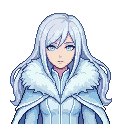
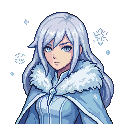
半身像角度返工 v217：霜华换带角度候选、圣骑士按三件套重生成 + 守卫 R5
- 霜华：换用带角度雪花披风候选（用户选定）；圣骑士：description 补齐
  角度+性格 pose 重生成（three-quarter、侧身远望、少年劲头的笑），同人闸门过
- 根治：pretool-guard 新增 R5——create_1_direction_object 的描述含
  portrait/bust 却缺角度词（three-quarter/turned/angled…）直接拦截；
  实弹自测拦/放各例通过；make-bootstrap 已同步说明书第 0 章副本
- 说明书 §F 补「description 硬性三件套」：身份+角度(禁正面证件照)+性格 pose，
  并把「带角度」列为候选挑选硬维度；档案登记新 object ID、旧正面版已删
- PixelLab 台账清理：废弃的正面版 object 与 review 残留全部删除

自测：Playwright 5/5 PASS；三张终版拼图逐张目视全带角度

Claude-Session: https://claude.ai/code/session_01QGRynvBqtept4T7sdccom5

diff --git a/index.html b/index.html
@@ -5,39 +5,39 @@
   <meta name="viewport" content="width=device-width, initial-scale=1.0, maximum-scale=1.0, user-scalable=no, viewport-fit=cover">
   <title>棕色尘埃 2 · Brown Dust 2</title>
   <!-- PWA / 添加到主屏幕（iOS 全屏关键） -->
-  <link rel="manifest" href="manifest.webmanifest?v=216">
+  <link rel="manifest" href="manifest.webmanifest?v=217">
   <meta name="theme-color" content="#1a1422">
   <meta name="mobile-web-app-capable" content="yes">
   <meta name="apple-mobile-web-app-capable" content="yes">
   <meta name="apple-mobile-web-app-status-bar-style" content="black-translucent">
   <meta name="apple-mobile-web-app-title" content="棕色尘埃2">
-  <link rel="apple-touch-icon" href="icons/apple-touch-icon.png?v=216">
-  <link rel="icon" type="image/png" href="icons/icon-192.png?v=216">
-  <link rel="stylesheet" href="css/style.css?v=216">
+  <link rel="apple-touch-icon" href="icons/apple-touch-icon.png?v=217">
+  <link rel="icon" type="image/png" href="icons/icon-192.png?v=217">
+  <link rel="stylesheet" href="css/style.css?v=217">
 </head>
 <body>
   <div id="app">
     <!-- 顶部栏：玩家信息 + 资源 + 系统 -->
     <header id="topbar">
       <button id="topbar-profile" class="profile-chip" title="玩家资料">
-        <span class="pc-avatar"><img src="art/01_splash/lecliss_avatar.png?v=216" alt="" onerror="this.outerHTML='🎖'"></span>
+        <span class="pc-avatar"><img src="art/01_splash/lecliss_avatar.png?v=217" alt="" onerror="this.outerHTML='🎖'"></span>
         <span class="pc-info">
           <span class="pc-name" id="pc-name">指挥官</span>
           <span class="pc-sub">Lv.<span id="pc-lv">1</span> · ⚔<span id="pc-pow">0</span></span>
         </span>
       </button>
       <div class="resources">
-        <div class="res" title="金币"><span class="res-icon"><img class="px-ico-sm" src="art/05_pixellab/ui/icons/coin.png?v=216" alt="金"></span><span id="res-gold">0</span></div>
-        <div class="res" title="宝石"><span class="res-icon"><img class="px-ico-sm" src="art/05_pixellab/ui/icons/gem.png?v=216" alt="钻"></span><span id="res-gem">0</span></div>
-        <div class="res" title="觉醒石"><span class="res-icon"><img class="px-ico-sm" src="art/05_pixellab/ui/icons/awaken.png?v=216" alt="石"></span><span id="res-stone">0</span></div>
-        <div class="res" title="体力"><span class="res-icon"><img class="px-ico-sm" src="art/05_pixellab/ui/icons/stamina.png?v=216" alt="力"></span><span id="res-stam">0</span></div>
+        <div class="res" title="金币"><span class="res-icon"><img class="px-ico-sm" src="art/05_pixellab/ui/icons/coin.png?v=217" alt="金"></span><span id="res-gold">0</span></div>
+        <div class="res" title="宝石"><span class="res-icon"><img class="px-ico-sm" src="art/05_pixellab/ui/icons/gem.png?v=217" alt="钻"></span><span id="res-gem">0</span></div>
+        <div class="res" title="觉醒石"><span class="res-icon"><img class="px-ico-sm" src="art/05_pixellab/ui/icons/awaken.png?v=217" alt="石"></span><span id="res-stone">0</span></div>
+        <div class="res" title="体力"><span class="res-icon"><img class="px-ico-sm" src="art/05_pixellab/ui/icons/stamina.png?v=217" alt="力"></span><span id="res-stam">0</span></div>
       </div>
       <div class="topbar-sys">
-        <button id="btn-notice" class="ghost-btn" title="公告"><img class="px-ico-sys" src="art/05_pixellab/ui/icons/notice.png?v=216" alt="公告"></button>
-        <button id="btn-mail" class="ghost-btn" title="邮件"><span class="dot-wrap"><img class="px-ico-sys" src="art/05_pixellab/ui/icons/mail.png?v=216" alt="邮件"><span id="mail-dot" class="red-dot" style="display:none;"></span></span></button>
-        <button id="btn-settings" class="ghost-btn" title="设置"><img class="px-ico-sys" src="art/05_pixellab/ui/icons/settings.png?v=216" alt="设置"></button>
-        <button id="btn-fullscreen" class="ghost-btn" title="全屏"><img class="px-ico-sys" src="art/05_pixellab/ui/icons/fullscreen.png?v=216" alt="全屏"></button>
-        <button id="btn-mute" class="ghost-btn" title="音效开关"><img class="px-ico-sys" src="art/05_pixellab/ui/icons/sound.png?v=216" alt="音效"></button>
+        <button id="btn-notice" class="ghost-btn" title="公告"><img class="px-ico-sys" src="art/05_pixellab/ui/icons/notice.png?v=217" alt="公告"></button>
+        <button id="btn-mail" class="ghost-btn" title="邮件"><span class="dot-wrap"><img class="px-ico-sys" src="art/05_pixellab/ui/icons/mail.png?v=217" alt="邮件"><span id="mail-dot" class="red-dot" style="display:none;"></span></span></button>
+        <button id="btn-settings" class="ghost-btn" title="设置"><img class="px-ico-sys" src="art/05_pixellab/ui/icons/settings.png?v=217" alt="设置"></button>
+        <button id="btn-fullscreen" class="ghost-btn" title="全屏"><img class="px-ico-sys" src="art/05_pixellab/ui/icons/fullscreen.png?v=217" alt="全屏"></button>
+        <button id="btn-mute" class="ghost-btn" title="音效开关"><img class="px-ico-sys" src="art/05_pixellab/ui/icons/sound.png?v=217" alt="音效"></button>
         <button id="btn-reset" class="ghost-btn" title="重置存档" style="display:none;">↺</button>
       </div>
     </header>
@@ -70,21 +70,21 @@
     </div>
   </div>
 
-  <script>window.ASSET_VER = '216';</script>
-  <script src="js/audio.js?v=216"></script>
-  <script src="js/data.js?v=216"></script>
-  <script src="js/balance.js?v=216"></script>
-  <script src="js/budget.js?v=216"></script>
-  <script src="js/lore.js?v=216"></script>
-  <script src="js/gear.js?v=216"></script>
-  <script src="js/costumes.js?v=216"></script>
-  <script src="js/game.js?v=216"></script>
-  <script src="js/battle.js?v=216"></script>
-  <script src="js/ui.js?v=216"></script>
-  <script src="js/story.js?v=216"></script>
-  <script src="js/comic.js?v=216"></script>
-  <script src="js/world.js?v=216"></script>
-  <script src="js/main.js?v=216"></script>
-  <script src="js/artlab.js?v=216"></script>
+  <script>window.ASSET_VER = '217';</script>
+  <script src="js/audio.js?v=217"></script>
+  <script src="js/data.js?v=217"></script>
+  <script src="js/balance.js?v=217"></script>
+  <script src="js/budget.js?v=217"></script>
+  <script src="js/lore.js?v=217"></script>
+  <script src="js/gear.js?v=217"></script>
+  <script src="js/costumes.js?v=217"></script>
+  <script src="js/game.js?v=217"></script>
+  <script src="js/battle.js?v=217"></script>
+  <script src="js/ui.js?v=217"></script>
+  <script src="js/story.js?v=217"></script>
+  <script src="js/comic.js?v=217"></script>
+  <script src="js/world.js?v=217"></script>
+  <script src="js/main.js?v=217"></script>
+  <script src="js/artlab.js?v=217"></script>
 </body>
 </html>

diff --git a/game.html b/game.html
@@ -5,14 +5,14 @@
   <meta name="viewport" content="width=device-width, initial-scale=1.0, maximum-scale=1.0, user-scalable=no, viewport-fit=cover">
   <title>棕色尘埃 2 · Brown Dust 2</title>
   <!-- PWA / 添加到主屏幕（iOS 全屏关键） -->
-  <link rel="manifest" href="manifest.webmanifest?v=216">
+  <link rel="manifest" href="manifest.webmanifest?v=217">
   <meta name="theme-color" content="#1a1422">
   <meta name="mobile-web-app-capable" content="yes">
   <meta name="apple-mobile-web-app-capable" content="yes">
   <meta name="apple-mobile-web-app-status-bar-style" content="black-translucent">
   <meta name="apple-mobile-web-app-title" content="棕色尘埃2">
-  <link rel="apple-touch-icon" href="icons/apple-touch-icon.png?v=216">
-  <link rel="icon" type="image/png" href="icons/icon-192.png?v=216">
+  <link rel="apple-touch-icon" href="icons/apple-touch-icon.png?v=217">
+  <link rel="icon" type="image/png" href="icons/icon-192.png?v=217">
   <style>
 /* ============================================================
    棕色尘埃 2 风格 UI — 暗色奇幻风格
@@ -2431,24 +2431,24 @@ button.ac-circle:active { transform: scale(.92); }
     <!-- 顶部栏：玩家信息 + 资源 + 系统 -->
     <header id="topbar">
       <button id="topbar-profile" class="profile-chip" title="玩家资料">
-        <span class="pc-avatar"><img src="art/01_splash/lecliss_avatar.png?v=216" alt="" onerror="this.outerHTML='🎖'"></span>
+        <span class="pc-avatar"><img src="art/01_splash/lecliss_avatar.png?v=217" alt="" onerror="this.outerHTML='🎖'"></span>
         <span class="pc-info">
           <span class="pc-name" id="pc-name">指挥官</span>
           <span class="pc-sub">Lv.<span id="pc-lv">1</span> · ⚔<span id="pc-pow">0</span></span>
         </span>
       </button>
       <div class="resources">
-        <div class="res" title="金币"><span class="res-icon"><img class="px-ico-sm" src="art/05_pixellab/ui/icons/coin.png?v=216" alt="金"></span><span id="res-gold">0</span></div>
-        <div class="res" title="宝石"><span class="res-icon"><img class="px-ico-sm" src="art/05_pixellab/ui/icons/gem.png?v=216" alt="钻"></span><span id="res-gem">0</span></div>
-        <div class="res" title="觉醒石"><span class="res-icon"><img class="px-ico-sm" src="art/05_pixellab/ui/icons/awaken.png?v=216" alt="石"></span><span id="res-stone">0</span></div>
-        <div class="res" title="体力"><span class="res-icon"><img class="px-ico-sm" src="art/05_pixellab/ui/icons/stamina.png?v=216" alt="力"></span><span id="res-stam">0</span></div>
+        <div class="res" title="金币"><span class="res-icon"><img class="px-ico-sm" src="art/05_pixellab/ui/icons/coin.png?v=217" alt="金"></span><span id="res-gold">0</span></div>
+        <div class="res" title="宝石"><span class="res-icon"><img class="px-ico-sm" src="art/05_pixellab/ui/icons/gem.png?v=217" alt="钻"></span><span id="res-gem">0</span></div>
+        <div class="res" title="觉醒石"><span class="res-icon"><img class="px-ico-sm" src="art/05_pixellab/ui/icons/awaken.png?v=217" alt="石"></span><span id="res-stone">0</span></div>
+        <div class="res" title="体力"><span class="res-icon"><img class="px-ico-sm" src="art/05_pixellab/ui/icons/stamina.png?v=217" alt="力"></span><span id="res-stam">0</span></div>
       </div>
       <div class="topbar-sys">
-        <button id="btn-notice" class="ghost-btn" title="公告"><img class="px-ico-sys" src="art/05_pixellab/ui/icons/notice.png?v=216" alt="公告"></button>
-        <button id="btn-mail" class="ghost-btn" title="邮件"><span class="dot-wrap"><img class="px-ico-sys" src="art/05_pixellab/ui/icons/mail.png?v=216" alt="邮件"><span id="mail-dot" class="red-dot" style="display:none;"></span></span></button>
-        <button id="btn-settings" class="ghost-btn" title="设置"><img class="px-ico-sys" src="art/05_pixellab/ui/icons/settings.png?v=216" alt="设置"></button>
-        <button id="btn-fullscreen" class="ghost-btn" title="全屏"><img class="px-ico-sys" src="art/05_pixellab/ui/icons/fullscreen.png?v=216" alt="全屏"></button>
-        <button id="btn-mute" class="ghost-btn" title="音效开关"><img class="px-ico-sys" src="art/05_pixellab/ui/icons/sound.png?v=216" alt="音效"></button>
+        <button id="btn-notice" class="ghost-btn" title="公告"><img class="px-ico-sys" src="art/05_pixellab/ui/icons/notice.png?v=217" alt="公告"></button>
+        <button id="btn-mail" class="ghost-btn" title="邮件"><span class="dot-wrap"><img class="px-ico-sys" src="art/05_pixellab/ui/icons/mail.png?v=217" alt="邮件"><span id="mail-dot" class="red-dot" style="display:none;"></span></span></button>
+        <button id="btn-settings" class="ghost-btn" title="设置"><img class="px-ico-sys" src="art/05_pixellab/ui/icons/settings.png?v=217" alt="设置"></button>
+        <button id="btn-fullscreen" class="ghost-btn" title="全屏"><img class="px-ico-sys" src="art/05_pixellab/ui/icons/fullscreen.png?v=217" alt="全屏"></button>
+        <button id="btn-mute" class="ghost-btn" title="音效开关"><img class="px-ico-sys" src="art/05_pixellab/ui/icons/sound.png?v=217" alt="音效"></button>
         <button id="btn-reset" class="ghost-btn" title="重置存档" style="display:none;">↺</button>
       </div>
     </header>
@@ -2481,7 +2481,7 @@ button.ac-circle:active { transform: scale(.92); }
     </div>
   </div>
 
-  <script>window.ASSET_VER = '216';</script>
+  <script>window.ASSET_VER = '217';</script>
 <script>
 // ============================================================
 //  音频系统（纯 Web Audio 实时合成，无需任何音频素材文件）

diff --git a/scripts/hooks/pretool-guard.js b/scripts/hooks/pretool-guard.js
@@ -39,6 +39,18 @@ if (tool === 'mcp__pixellab__animate_character') {
   }
 }
 
+// ── 规则5：立绘/半身像禁「正面证件照」——描述必须显式带角度 ─────────
+// 教训：2026-07 三套服装半身像里两套出成正面证件照返工（姿势由 description 文字
+// 驱动，不写角度词默认正对镜头）。硬性三件套见说明书·美术 §F：身份 + 角度 + 性格 pose。
+if (tool === 'mcp__pixellab__create_1_direction_object') {
+  const d = String(ti.description || '');
+  if (/portrait|bust|half[- ]body|头像|半身/i.test(d)
+    && !/three[- ]quarter|3\/4|turned|angled|side view|profile|looking (to|over|aside|into)/i.test(d)) {
+    deny('🚫闸门：半身像/立绘的 description 缺角度措辞（three-quarter / head turned / angled…）。' +
+      '正面证件照死板禁用——必须带角度 + 按角色性格配 pose。见说明书·美术 §F 硬性三件套。');
+  }
+}
+
 if (tool === 'Bash') {
   const cmd = String(ti.command || '');
 
